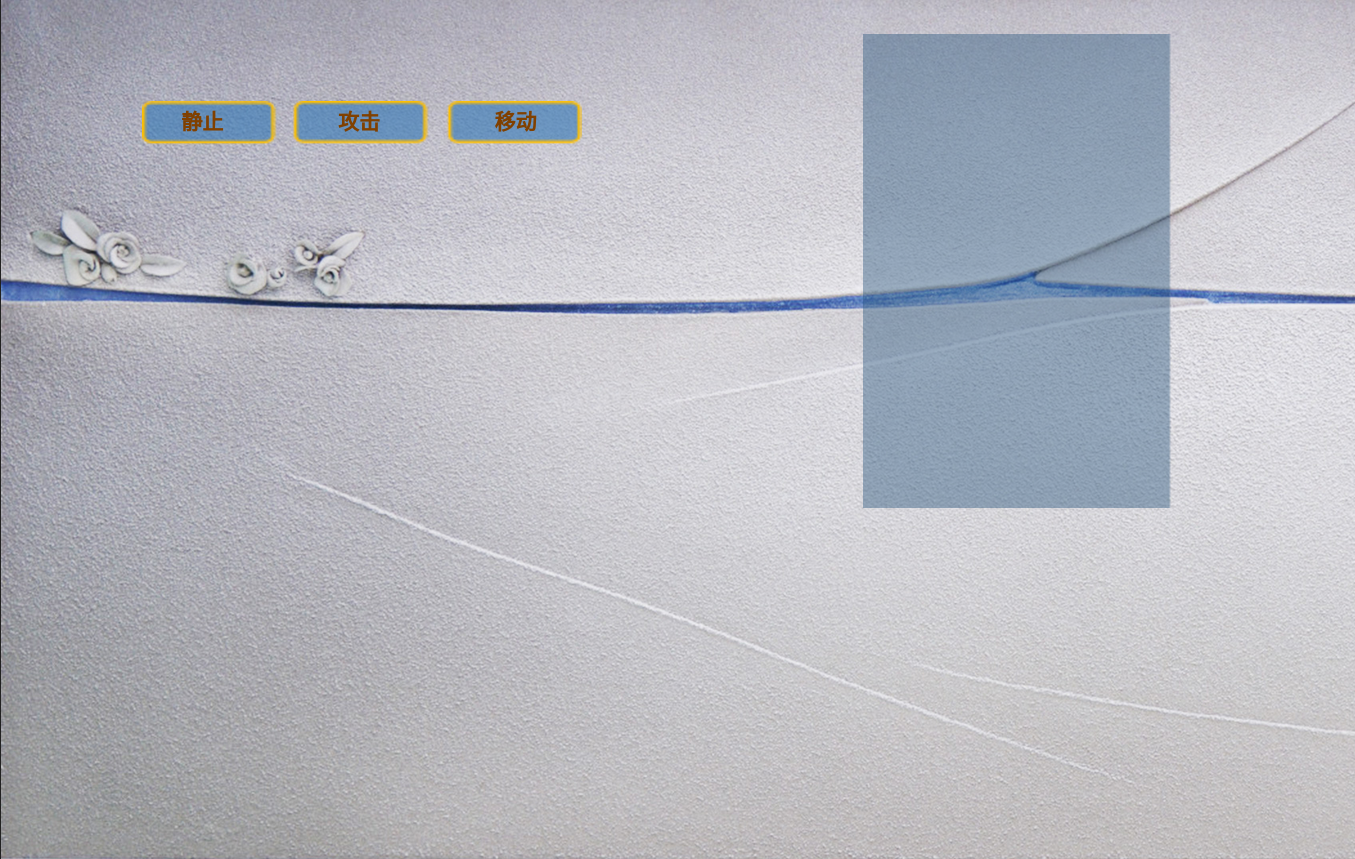
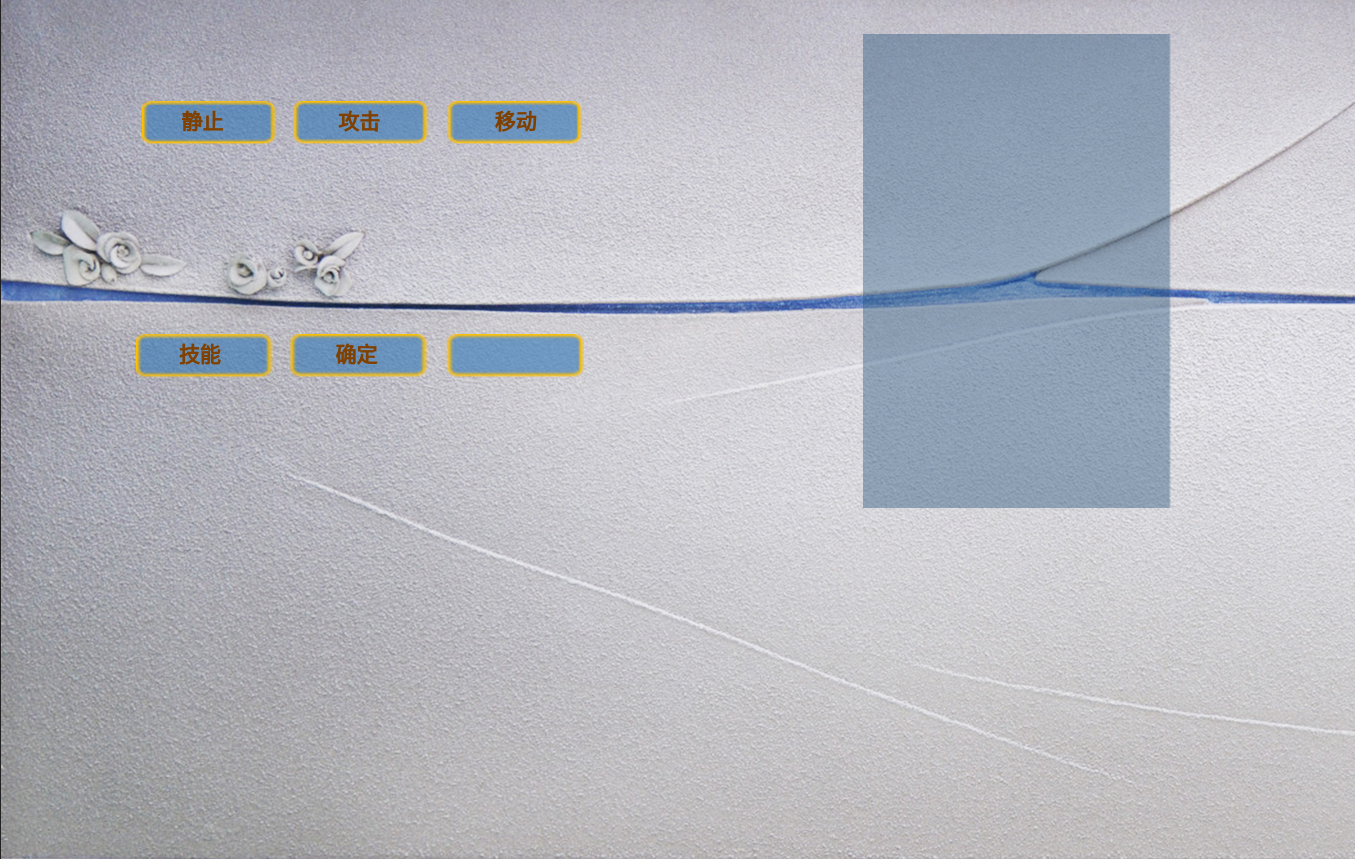
自定义初步完成

Changed region(s): [[0.093, 0.3632, 0.4339, 0.454]]

diff --git a/Custom.py b/Custom.py
@@ -6,6 +6,8 @@ from define import *
 import json
 import time
 import Resource
+import os
+import shutil
 
 class CustomC():
     def __init__(self):
@@ -22,15 +24,16 @@ class CustomC():
         self.skill_2=None
         self.skill_3=None
         self.finished=False
-        self.buttonscale=[[160,290,120,150],[103,894,44,838]]
+        self.buttonscale=[[160,290,120,150],[103,894,44,838],[310,437,120,150],[474,600,120,150],[160,290,351,384],[308,437,351,384]]
         self.rolllength=0
         self.fontObj = pygame.font.Font('DejaVuSans.ttf', 20)
         self.actionkind=-1
-        self.actioncomplete=[False,False,False]
+        self.actioncomplete=[False,False,False,False]
         self.choosestate=0
         self.charactersize=[200,350]
         self.actionpic=[]
         self.actionblitcount=0
+        self.actionpath=[[],[],[],[]]
         extern.custom_resource=Resource.RCustom('Resource/json/custom')
 
     def customshow1(self):
@@ -69,14 +72,22 @@ class CustomC():
         if(event.type==MOUSEBUTTONDOWN):
             if(event.button==1):
                 if ((x<self.buttonscale[0][1])&(x>self.buttonscale[0][0])&(y<self.buttonscale[0][3])&(y>self.buttonscale[0][2])):
-                    self.state=2
-                    self.actionkind=0
+                    self.state2init(0)
+                elif ((x<self.buttonscale[2][1])&(x>self.buttonscale[2][0])&(y<self.buttonscale[2][3])&(y>self.buttonscale[2][2])):
+                    self.state2init(1)
+                elif ((x<self.buttonscale[3][1])&(x>self.buttonscale[3][0])&(y<self.buttonscale[3][3])&(y>self.buttonscale[3][2])):    
+                    self.state2init(2)
+                elif ((x<self.buttonscale[4][1])&(x>self.buttonscale[4][0])&(y<self.buttonscale[4][3])&(y>self.buttonscale[4][2])):    
+                    self.state2init(3)
+                elif ((x<self.buttonscale[5][1])&(x>self.buttonscale[5][0])&(y<self.buttonscale[5][3])&(y>self.buttonscale[5][2])):
                     self.temptime=extern.last_fresh_time
-                    self.actioncomplete[0]=False
+                    extern.game_state=GAMEINIT
                     if len(self.actionpic)>0:
                         for p in self.actionpic:
                             del p
                     self.actionpic=[]
+                    if False not in self.actionpath:
+                        self.writejson()
         x-=extern.interface_resource.cursor.get_width()/2
         y-=extern.interface_resource.cursor.get_width()/2
         textSurfaceObj = self.fontObj.render('('+str(x)+','+str(y)+') '+str(self.state), True,(0,0,0),(255,255,255))
@@ -107,11 +118,12 @@ class CustomC():
                                         pygame.image.load('Resource/custom/'+extern.custom_resource.picpath[int(tx/140)+int(ty/250)*5]
                                         ).convert_alpha(),
                                     self.charactersize))
+                                self.actionpath[self.actionkind].append('Resource/custom/'+extern.custom_resource.picpath[int(tx/140)+int(ty/250)*5])
                                 self.choosestate=self.choosestate+1
                                 self.temptime=extern.last_fresh_time
                                 if self.choosestate==3:
                                     self.choosestate=0
-                                    self.actioncomplete[0]=True
+                                    self.actioncomplete[self.actionkind]=True
                                     self.state=1
 
         x-=extern.interface_resource.cursor.get_width()/2
@@ -121,14 +133,47 @@ class CustomC():
         textRectObj.center = (1300,100)
         extern.interface_resource.screen.blit(textSurfaceObj, textRectObj)
 
+    def state2init(self,ak):
+        self.state=2
+        self.actionkind=ak
+        self.temptime=extern.last_fresh_time
+        self.actioncomplete[ak]=False
+        if len(self.actionpic)>0:
+            for p in self.actionpic:
+                del p
+        self.actionpic=[]
+        self.actionpath[self.actionkind]=[]
+
     def actionblit(self):
         if self.actionkind>-1:
             if self.actioncomplete[self.actionkind]:
                 self.actionblitcount=self.actionblitcount+1
                 if self.actionblitcount==15:
                     self.actionblitcount=0
-                extern.interface_resource.screen.blit(self.actionpic[int(self.actionblitcount/5)],(1000,100))
+                if not extern.game_state==GAMEINIT:
+                    extern.interface_resource.screen.blit(self.actionpic[int(self.actionblitcount/5)],(1000,100))
 
+    def writejson(self):
+        dirname='Resource/character/'+time.strftime('%Y%m%d%H%M',time.localtime(time.time()))
+        os.mkdir(dirname)
+        filename=[*self.actionpath[0],*self.actionpath[1],*self.actionpath[2],*self.actionpath[3]]
+        filename=list({}.fromkeys(filename).keys()) 
+        for x in filename:
+            shutil.copyfile(x,dirname+'/'+x.split('/')[-1])
+        with open ('Resource/json/'+time.strftime('%Y%m%d%H%M',time.localtime(time.time())),'w') as mc:
+            info = [
+                [dirname+'/'+self.actionpath[0][0].split('/')[-1],
+                dirname+'/'+self.actionpath[1][0].split('/')[-1],
+                dirname+'/'+self.actionpath[1][1].split('/')[-1],
+                dirname+'/'+self.actionpath[2][0].split('/')[-1],
+                dirname+'/'+self.actionpath[2][1].split('/')[-1],
+                dirname+'/'+self.actionpath[3][0].split('/')[-1]],
+                (75,123),
+                [(200,200)],
+                (10,10),
+                [2,3,4]
+            ]
+            json.dump(info,mc)
 
     def update(self,event):
         if self.state==1:

diff --git a/Player.py b/Player.py
@@ -133,6 +133,7 @@ class Player():
                     self.player_update_blit((self.count>5)+3)
                 self.count=self.count+1
             else:
+                self.state=PLAYERSTATIC
                 self.player_update_blit(0)
             if self.signal==ATTACKED:
                 self.state=PLAYERATTACKED
@@ -164,6 +165,7 @@ class Player():
                     self.player_update_blit((self.count>5)+3)
                 self.count=self.count+1
             else:
+                self.state=PLAYERSTATIC
                 self.player_update_blit(0)
             if self.signal==ATTACKED:
                 self.state=PLAYERATTACKED
@@ -195,6 +197,7 @@ class Player():
                     self.player_update_blit((self.count>5)+3)
                 self.count=self.count+1
             else:
+                self.state=PLAYERSTATIC
                 self.player_update_blit(0)
             if self.signal==ATTACKED:
                 self.state=PLAYERATTACKED

diff --git a/test.py b/test.py
@@ -68,6 +68,8 @@ while True:
                         start.mouseclick_respond(event)
 
                 elif(extern.game_state ==GAMECUSTOMCHOOSE):
+                        if extern.custommode:
+                                del extern.custommode
                         extern.custommode=Custom.CustomC()
                         extern.game_state=GAMECUSTOMC
                 
@@ -75,6 +77,8 @@ while True:
                         extern.custommode.update(event)
                         
                 elif(extern.game_state==GAMELOAD): 
+                        if extern.singleplayergame:
+                                del extern.singleplayergame
                         extern.singleplayergame=Game.Single_player_game()
                         extern.game_state=GAMESTART
                         

diff --git a/Game.py b/Game.py
@@ -25,6 +25,8 @@ class Single_player_game():
         self.skill_list=[]
     # 信号列表,用于暂存未处理的信号
         self.signal_list=[]
+    # 障碍物列表
+        self.obstacle_list=[]
     # 键盘状态
         self.keyboardevent=pygame.key.get_pressed()
 
